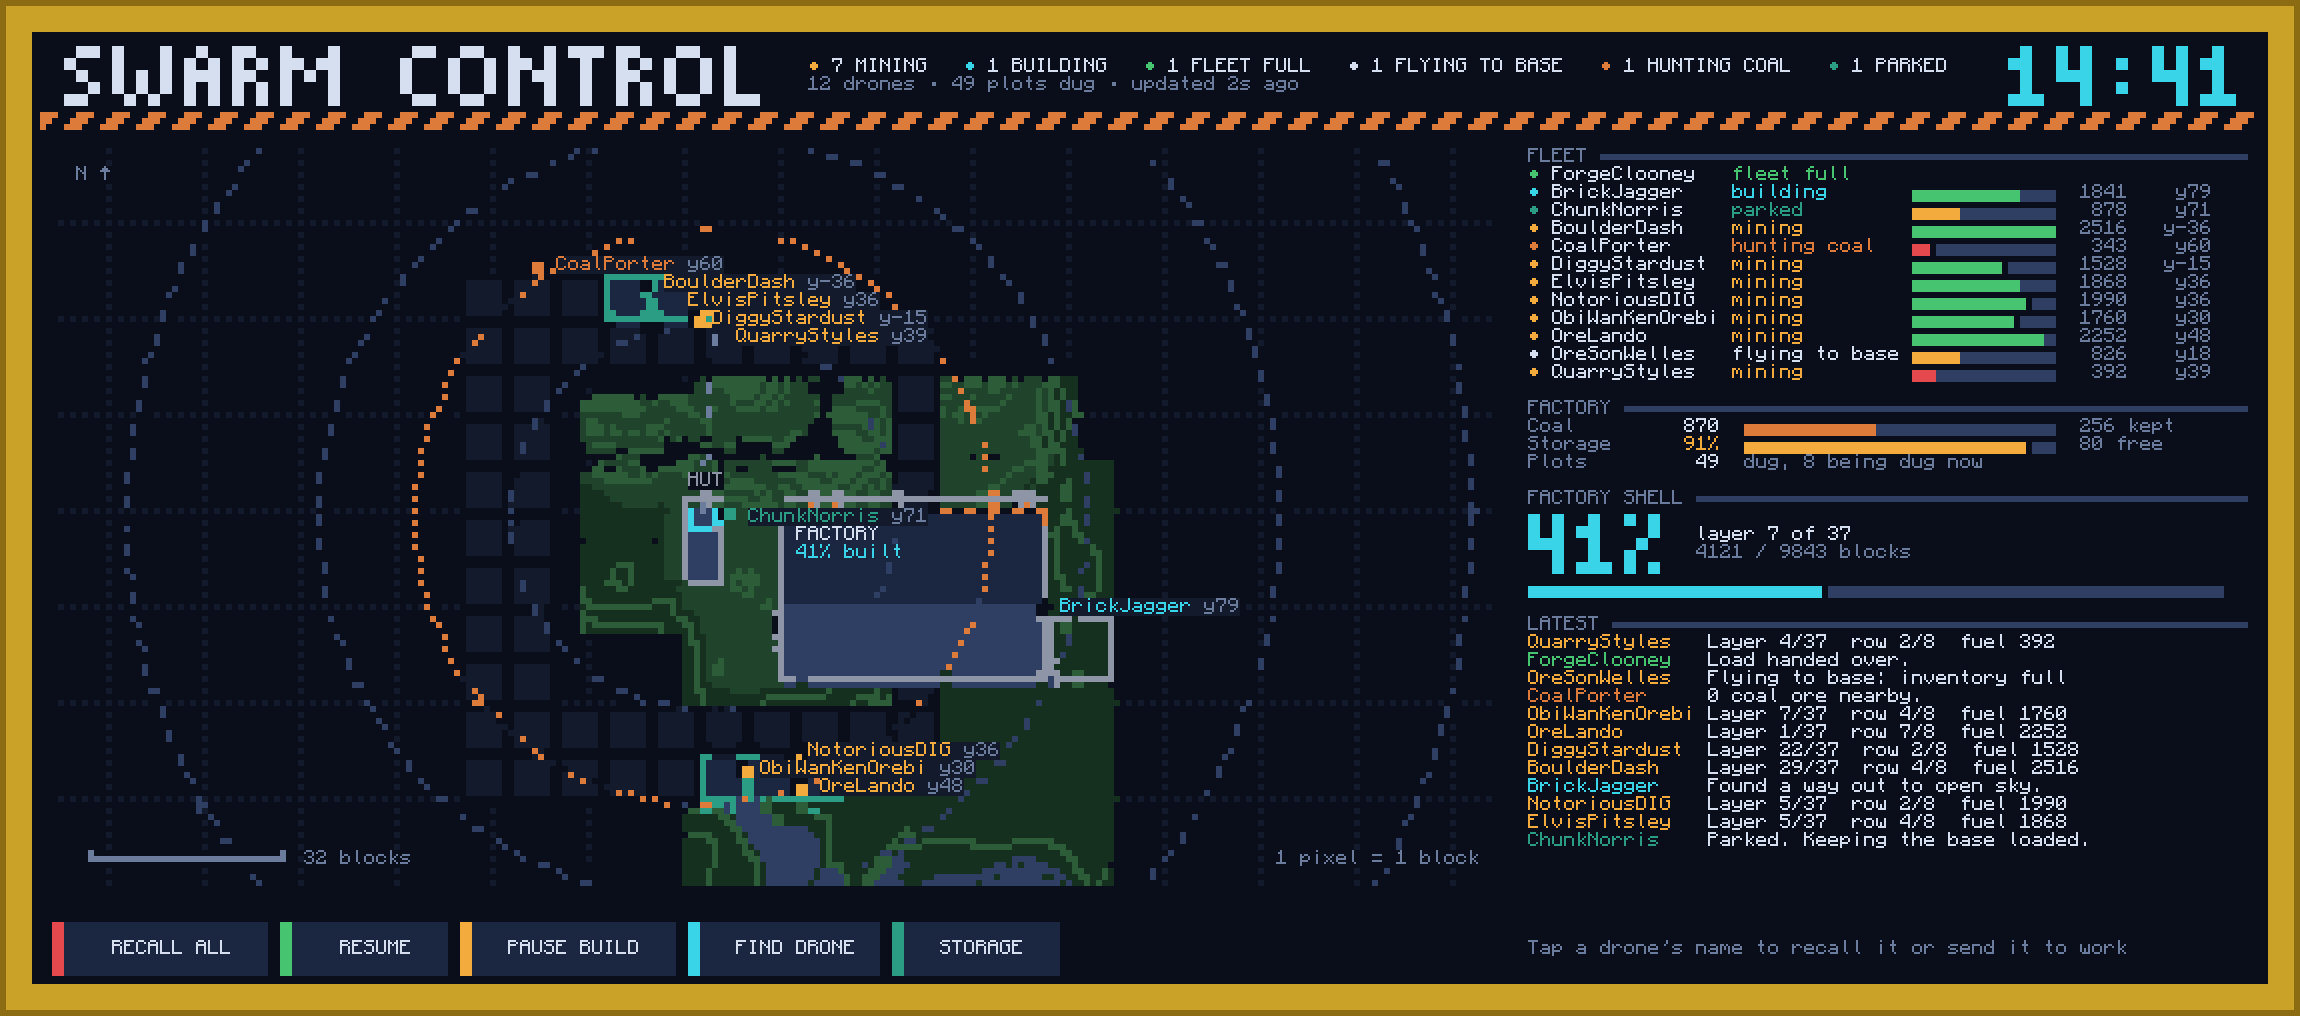
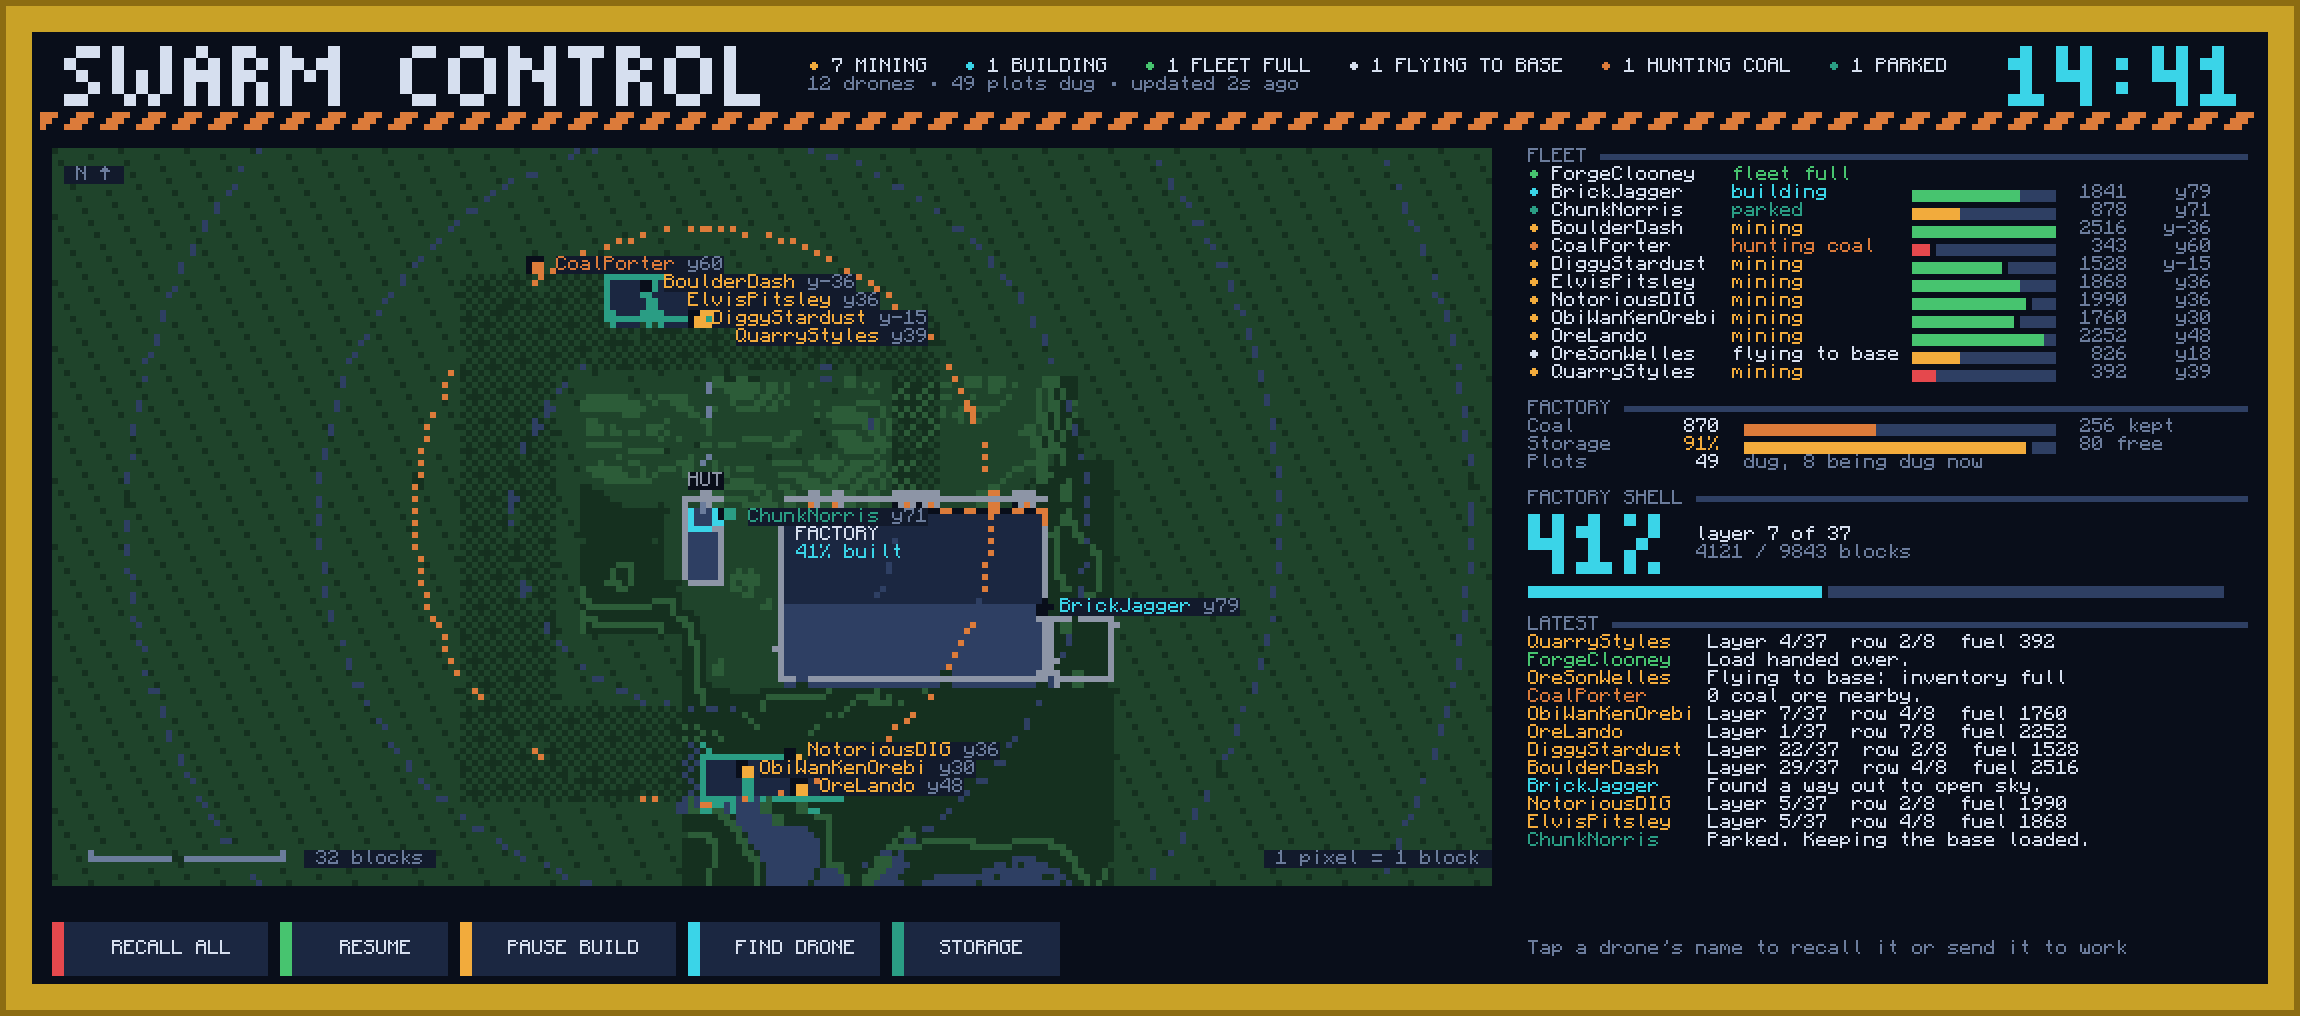
dash: render all the ground, not just the scanned parts
Land not scanned yet is plain textured green instead of night, so the map
reads as one piece; scans add contours, trees and water on top. Dug plots
(underground) now only shade the land.

Claude-Session: https://claude.ai/code/session_01MMk6rMyqfZBTqEDR1V41gg

diff --git a/docs/screens/index.html b/docs/screens/index.html
@@ -59,9 +59,9 @@ code { font-family: var(--mono); font-size: 0.92em; }
 </figure>
 <div class="two">
   <ul class="points">
-    <li><b>The map</b> draws one pixel per block, north up. Land BrickJagger has scanned shows in three greens by height, with contour lines; unscanned land shows as dark night with the chunk grid.</li>
+    <li><b>The map</b> draws one pixel per block, north up. Land BrickJagger has scanned shows in three greens by height, with contour lines, trees and water. Land it hasn't scanned yet is plain textured green, and the detail fills in as scans come in.</li>
     <li><b>Radar rings</b> sit every 32 blocks from the base. The copper ring is how far the coal hunter may roam.</li>
-    <li><b>Plots:</b> the dug ones are dark squares, and the ones being dug now are outlined in teal.</li>
+    <li><b>Plots:</b> they're dug underground, so the dug ones just shade the land darker. The ones being dug now are outlined in teal.</li>
     <li><b>The factory</b> fills in as it's built, with the drone lane striped along its back.</li>
     <li><b>Drones</b> are coloured by what they're doing, with name and depth. Anyone flying home gets a dotted line back to the base.</li>
   </ul>
